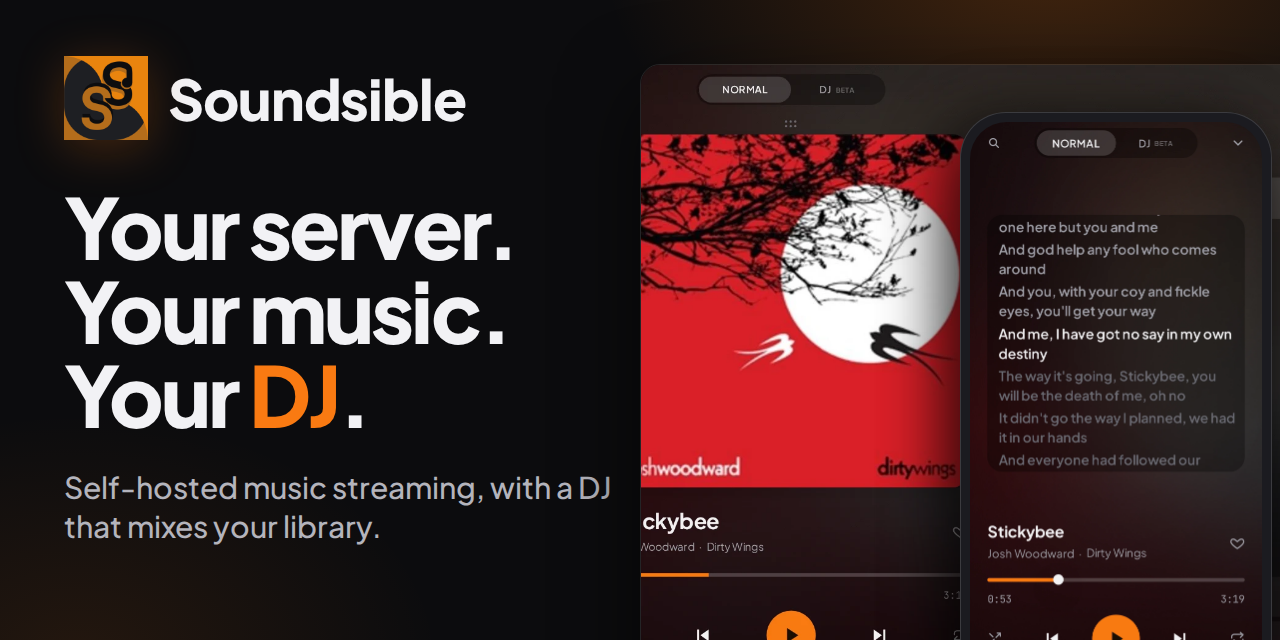
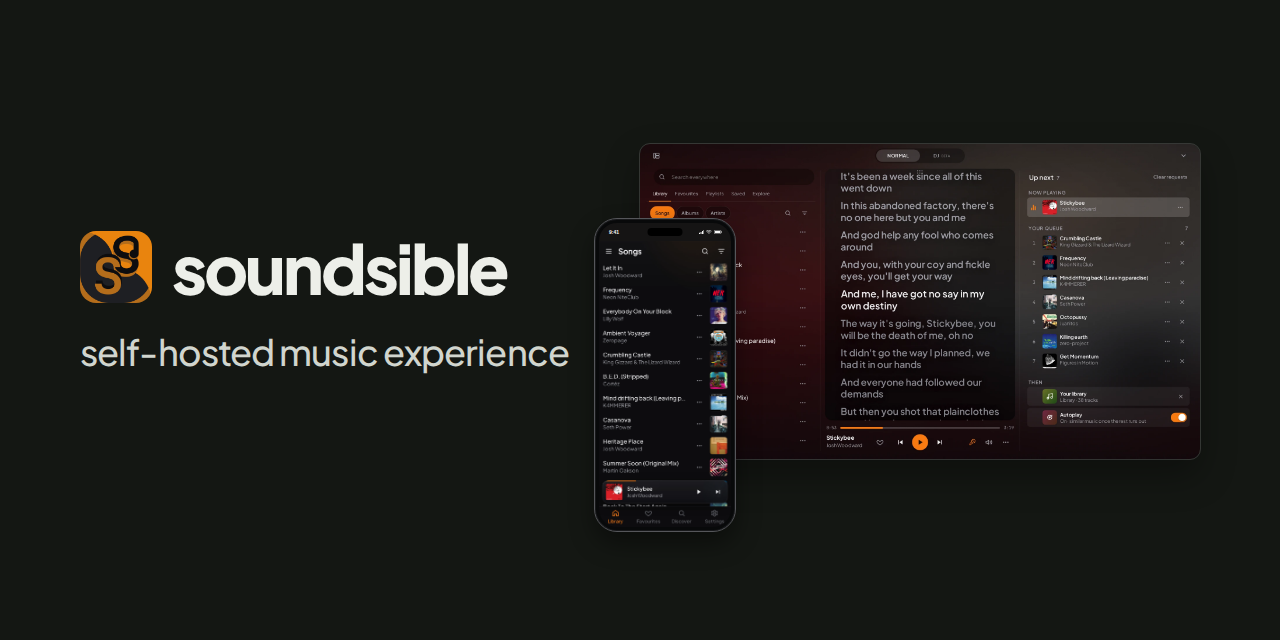
Redesign the social card for small feed previews (#473)
* Simplify the social card and protect its feed crop

* Wait for settled playback before testing UI handoff

diff --git a/ui_web/showcase/card.html b/ui_web/showcase/card.html
@@ -3,12 +3,7 @@
 <head>
 <meta charset="utf-8">
 <title>Soundsible social card</title>
-<!--
-  The repository's social card, rendered at 1280×640 by card.spec.ts from the
-  screenshots screens.spec.ts has just taken. It is read at a fraction of that
-  size — a link preview, a feed — so everything on it is large and there is
-  little of it.
--->
+<!-- Keep the entire composition inside the central 1280×480 crop used by feeds. -->
 <style>
   @font-face {
     font-family: 'Plus Jakarta Sans';
@@ -20,97 +15,67 @@
     font-weight: 800;
     src: url('../node_modules/@fontsource/plus-jakarta-sans/files/plus-jakarta-sans-latin-800-normal.woff2') format('woff2');
   }
-  :root {
-    --bg: #0c0c0e;
-    --ink: #f2f2f5;
-    --ink-soft: #b4b4bc;
-    --accent: #f97a12;
-    --glow: rgba(249, 122, 18, 0.24);
-  }
   * { box-sizing: border-box; margin: 0; }
   html, body { width: 1280px; height: 640px; overflow: hidden; }
   body {
     position: relative;
-    background:
-      radial-gradient(640px 420px at 82% -8%, var(--glow), transparent 70%),
-      radial-gradient(520px 360px at 6% 104%, rgba(249, 122, 18, 0.10), transparent 70%),
-      var(--bg);
-    color: var(--ink);
+    background: #141713;
+    color: #edefe9;
     font-family: 'Plus Jakarta Sans', sans-serif;
   }
-  .copy {
-    position: absolute;
-    left: 64px;
-    top: 56px;
-    width: 560px;
-  }
-  .brand {
-    display: flex;
-    align-items: center;
-    gap: 20px;
-    font-size: 56px;
-    font-weight: 800;
-    letter-spacing: -0.02em;
-  }
-  .brand img {
-    width: 84px;
-    height: 84px;
-    filter: drop-shadow(0 8px 24px var(--glow));
-  }
-  h1 {
-    margin-top: 44px;
-    font-size: 84px;
-    font-weight: 800;
-    line-height: 1;
-    letter-spacing: -0.035em;
-  }
-  h1 em { font-style: normal; color: var(--accent); }
-  p {
-    margin-top: 32px;
-    color: var(--ink-soft);
-    font-size: 30px;
-    font-weight: 500;
-    line-height: 1.3;
-  }
-  /* The desktop window from its stage onwards: the library pane would sit
-     under the headline and say nothing at this size. */
+  .copy { position: absolute; left: 80px; top: 230px; }
+  .brand { display: flex; align-items: center; gap: 20px; }
+  .brand img { width: 72px; height: 72px; border-radius: 16px; }
+  h1 { font-size: 68px; font-weight: 800; line-height: 1.1; letter-spacing: -0.045em; }
+  p { margin-top: 24px; font-size: 36px; line-height: 1.25; letter-spacing: -0.025em; font-weight: 500; color: #d1d5ce; white-space: nowrap; }
   .desktop {
     position: absolute;
     left: 640px;
-    top: 64px;
-    width: 700px;
-    height: 640px;
+    top: 144px;
+    width: 560px;
+    border-radius: 10px;
     overflow: hidden;
-    border-radius: 20px 0 0 0;
-    border: 1px solid rgba(255, 255, 255, 0.10);
-    box-shadow: 0 30px 80px rgba(0, 0, 0, 0.6);
+    outline: 1px solid #ffffff26;
+    box-shadow: 0 16px 36px #0005;
   }
-  .desktop img {
-    display: block;
-    width: 1180px;
-    margin-left: -440px;
-  }
+  img { display: block; width: 100%; }
   .phone {
     position: absolute;
-    left: 960px;
-    top: 112px;
-    width: 312px;
-    padding: 9px;
-    border-radius: 46px;
-    background: #1b1b20;
-    border: 1px solid rgba(255, 255, 255, 0.14);
-    box-shadow: 0 30px 70px rgba(0, 0, 0, 0.7), -20px 0 60px rgba(0, 0, 0, 0.45);
+    left: 594px;
+    top: 218px;
+    width: 142px;
+    padding: 4px;
+    border: 1px solid #55565a;
+    border-radius: 23px;
+    background: #08090a;
+    box-shadow: 0 12px 24px #0006, inset 0 0 0 1px #18191b;
   }
-  .phone img { display: block; width: 100%; border-radius: 37px; }
+  .screen { overflow: hidden; border-radius: 18px; }
+  .status { position: relative; height: 18px; background: #151414; color: #f5f5f5; }
+  .time { position: absolute; left: 10px; top: 7px; font: 600 5px/1 Arial, sans-serif; }
+  .camera { position: absolute; left: 50%; top: 5px; width: 35px; height: 8px; transform: translateX(-50%); border-radius: 10px; background: #000; }
+  .indicators { position: absolute; right: 9px; top: 7px; display: flex; gap: 2px; }
+  .indicators svg { height: 4px; width: auto; }
 </style>
 </head>
 <body>
   <section class="copy">
-    <div class="brand"><img src="../../branding/logo-app.png" alt="">Soundsible</div>
-    <h1>Your server.<br>Your music.<br>Your <em>DJ</em>.</h1>
-    <p>Self-hosted music streaming, with a DJ that mixes your library.</p>
+    <div class="brand"><img src="../../branding/logo-app.png" alt=""><h1>soundsible</h1></div>
+    <p>self-hosted music experience</p>
   </section>
-  <div class="desktop"><img src="../../docs/images/screenshots/dark/desktop-now-playing.webp" alt=""></div>
-  <div class="phone"><img src="../../docs/images/screenshots/dark/mobile-now-playing.webp" alt=""></div>
+  <div class="desktop"><img src="../../docs/images/screenshots/dark/desktop-lyrics.webp" alt="Soundsible desktop shell with lyrics, library and queue"></div>
+  <div class="phone">
+    <div class="screen">
+      <div class="status" aria-hidden="true">
+        <span class="time">9:41</span><span class="camera"></span>
+        <span class="indicators">
+          <svg viewBox="0 0 14 10" fill="currentColor"><path d="M0 7h2.5v3H0zm3.8-2h2.5v5H3.8zm3.7-2.5H10V10H7.5zM11.3 0h2.5v10h-2.5z"/></svg>
+          <svg viewBox="0 0 14 10" fill="none" stroke="currentColor" stroke-width="1.6" stroke-linecap="round"><path d="M1 2.5a9 9 0 0 1 12 0M3.4 5a5.5 5.5 0 0 1 7.2 0M5.8 7.5a1.9 1.9 0 0 1 2.4 0"/></svg>
+          <svg viewBox="0 0 20 10" fill="currentColor"><rect x=".6" y=".6" width="16.8" height="8.8" rx="2" fill="none" stroke="currentColor" stroke-width="1.2"/><rect x="2.2" y="2.2" width="13.6" height="5.6" rx=".8"/><path d="M18.6 3v4a2 2 0 0 0 0-4"/></svg>
+        </span>
+      </div>
+      <img src="../../docs/images/screenshots/dark/mobile-library.webp" alt="Soundsible mobile music library">
+    </div>
+  </div>
 </body>
 </html>

diff --git a/android/app/src/androidTest/java/com/soundsible/android/DevicesUiTest.kt b/android/app/src/androidTest/java/com/soundsible/android/DevicesUiTest.kt
@@ -77,12 +77,29 @@ class DevicesUiTest {
                 while (System.nanoTime() < until && !main { active.isPlaying }) Thread.sleep(50)
                 assertTrue(main { active.isPlaying })
                 main { active.seekTo(8321); active.repeatMode = androidx.media3.common.Player.REPEAT_MODE_ALL; active.shuffleModeEnabled = true }
+                // A seek temporarily buffers. Handoff rejects a source whose transport
+                // changes during its HTTP requests, so wait for the service's confirmed
+                // publication, not the controller's optimistic position after seekTo.
+                val nativeId = JSONObject(main { active.sessionExtras.getString("nativeDevice") }!!).getString("device_id")
+                var published = JSONObject()
+                fun settled(): Boolean {
+                    published = core("/api/playback/state")
+                    val session = published.optJSONObject("session")
+                    return published.optString("device_id") == nativeId && published.optBoolean("is_playing") &&
+                        published.optDouble("position_sec", -1.0) in 8.0..18.0 && session?.optInt("index") == 1 &&
+                        session.optString("repeat") == "all" && session.optBoolean("shuffle")
+                }
+                val seekSettled = System.nanoTime() + TimeUnit.SECONDS.toNanos(20)
+                while (!settled() && System.nanoTime() < seekSettled) Thread.sleep(50)
+                assertTrue("Native seek/preferences were not published before handoff: $published", settled())
                 waitFor("!!document.querySelector('[data-testid=android-settings-devices] button:not(:disabled)')&&Array.from(document.querySelectorAll('[data-testid=android-settings-devices] button')).some(b=>b.textContent==='Transfer playback'&&!b.disabled)")
                 latestStart.set(null)
                 web.evaluate(scenario, "Array.from(document.querySelectorAll('[data-testid=android-settings-devices] button')).find(b=>b.textContent==='Transfer playback').click()")
                 val transferred = System.nanoTime() + TimeUnit.SECONDS.toNanos(20)
                 while (System.nanoTime() < transferred && latestStart.get()?.optJSONObject("state")?.optJSONObject("session") == null) Thread.sleep(50)
-                val state = latestStart.get()!!.getJSONObject("state")
+                val delivered = latestStart.get()
+                assertNotNull("UI transfer never reached peer Core socket: " + web.evaluate(scenario, "document.querySelector('[data-testid=android-settings-devices]').innerText"), delivered)
+                val state = delivered!!.getJSONObject("state")
                 val session = state.getJSONObject("session")
                 assertEquals(2, session.getJSONArray("queue").length()); assertEquals(1, session.getInt("index"))
                 assertEquals("Native second", session.getJSONArray("queue").getJSONObject(1).getString("title"))

diff --git a/ui_web/showcase/screens.spec.ts b/ui_web/showcase/screens.spec.ts
@@ -28,8 +28,20 @@ async function openPlayer(page: Page) {
   await settle(page, '[data-player-surface-open]');
 }
 
-const SHOTS: Array<{ name: string; project: 'desktop' | 'mobile'; stage: (page: Page) => Promise<void> }> = [
+const SHOTS: Array<{ name: string; project: 'desktop' | 'mobile'; themes?: string[]; stage: (page: Page) => Promise<void> }> = [
   { name: 'desktop-now-playing', project: 'desktop', stage: openPlayer },
+  {
+    name: 'desktop-lyrics',
+    project: 'desktop',
+    themes: ['dark'], // The social card uses the dark shell with its lyrics open.
+    stage: async (page) => {
+      await openPlayer(page);
+      await page.locator('[data-player-stage-mode="now-playing"]').getByRole('button', { name: 'Show lyrics' }).click();
+      await expect(page.locator('[data-lyrics-stage]')).toBeVisible();
+      await expect(page.locator('[data-lyrics-scroll]')).toContainText('And god help any fool');
+      await settle(page, '[data-player-surface-open]');
+    },
+  },
   { name: 'desktop-library', project: 'desktop', stage: (page) => startup(page, '/library?view=songs') },
   { name: 'desktop-search', project: 'desktop', stage: (page) => startup(page, '/search?q=Josh%20Woodward') },
   { name: 'mobile-library', project: 'mobile', stage: (page) => startup(page, '/library?view=songs') },
@@ -49,7 +61,7 @@ const SHOTS: Array<{ name: string; project: 'desktop' | 'mobile'; stage: (page: 
 ];
 
 for (const shot of SHOTS) {
-  for (const theme of PALETTES) {
+  for (const theme of shot.themes ?? PALETTES) {
     test(`${shot.name} · ${theme}`, async ({ page }, info) => {
       test.skip(info.project.name !== shot.project, `${shot.name} is a ${shot.project} screenshot`);
       await mockShowcaseEngine(page, theme);

diff --git a/ui_web/showcase/card.spec.ts b/ui_web/showcase/card.spec.ts
@@ -12,6 +12,15 @@ test('social card', async ({ page }) => {
   await page.goto(pathToFileURL(join(import.meta.dirname, 'card.html')).href);
   await page.evaluate(() => document.fonts.ready);
   await expect.poll(() => page.evaluate(() => [...document.images].every((image) => image.complete && image.naturalWidth > 0))).toBe(true);
+  // Feeds can center-crop the 2:1 upload to an approximately 8:3 banner.
+  // Keep the branding and both complete devices inside that crop, with side margins.
+  for (const element of await page.locator('.copy, .desktop, .phone').all()) {
+    const bounds = (await element.boundingBox())!;
+    expect(bounds.x).toBeGreaterThanOrEqual(80);
+    expect(bounds.x + bounds.width).toBeLessThanOrEqual(1200);
+    expect(bounds.y).toBeGreaterThanOrEqual(80);
+    expect(bounds.y + bounds.height).toBeLessThanOrEqual(560);
+  }
   await writePicture(page, await page.screenshot({ animations: 'disabled' }), CARD);
   expect(statSync(CARD).size, 'GitHub takes a social preview of at most 1 MB').toBeLessThan(LIMIT);
 });

diff --git a/docs/internal/showcase/README.md b/docs/internal/showcase/README.md
@@ -20,3 +20,32 @@ uses the dark image as its fallback, matching the screenshot gallery.
 
 The source captures retain their existing Jamendo music credits in
 `ui_web/showcase/CREDITS.md`.
+
+## Social card
+
+`ui_web/showcase/card.html` renders `docs/images/social-card.png` at 1280×640.
+It uses the landing header's flat dark background, rounded icon and lowercase
+wordmark, with only “self-hosted music experience” below it, kept on one line
+at 36px with brighter text for small feed previews. The desktop shell
+shows lyrics, library and queue; the overlapping phone uses the same intact
+mobile-library capture as the README. The dark desktop-lyrics capture is staged
+by `screens.spec.ts`; the README composition and its source captures are unchanged.
+
+All three elements fit within the central 1280×480 region, with at least 80px
+of horizontal padding. `card.spec.ts` checks these bounds and GitHub's 1 MB
+upload limit. This protects the composition against the shorter centered crop
+seen in GitHub feeds. The full card and a 360px-wide cropped preview are inspected
+before committing.
+
+To refresh only the card and its lyrics capture, run these commands sequentially
+in `ui_web/` (the Playwright container used by `scripts/refresh_showcase.sh` keeps
+font rendering consistent):
+
+```sh
+npm run showcase -- --project=desktop --grep desktop-lyrics
+npm run showcase -- --project=card --no-deps
+```
+
+The committed PNG must also be uploaded in the repository's **Settings → Social
+preview** to replace GitHub's stored image; committing it alone does not update
+that setting.

diff --git a/docs/internal/android/CI_DIAGNOSTICS.md b/docs/internal/android/CI_DIAGNOSTICS.md
@@ -99,6 +99,18 @@ intermittency, not a resolved cause. The assertions are not relaxed.
 
 ## Remote handoff diagnostics
 
+PR #473, run `44077652665`, shard 6 failed `DevicesUiTest.tlsDevices` after
+waiting for a handoff event, then dereferencing the absent payload. The emulator
+log shows the test seeking at 11:58:21.287, buffering, and returning to PLAYING
+at 11:58:21.476. The test clicked transfer immediately after issuing seek,
+repeat and shuffle commands. Native handoff deliberately rejects a source whose
+transport/session changes during its HTTP requests, so this setup could race
+that guard. The test now waits for the service's Core publication to confirm
+playing at the requested position with the intended queue index, repeat and
+shuffle before clicking transfer. The peer-delivery, queue, position and native
+stop assertions remain intact; a missing event reports the devices panel instead
+of a null-pointer exception. Remote emulator validation remains required.
+
 In PR #434, run `42567024132`, shard 7 ran 33 cases and failed
 `QueueLanesTest.httpQueueLanesAndResume`: the laptop received the stop command,
 but the phone's native snapshot still had an empty queue after accepting
